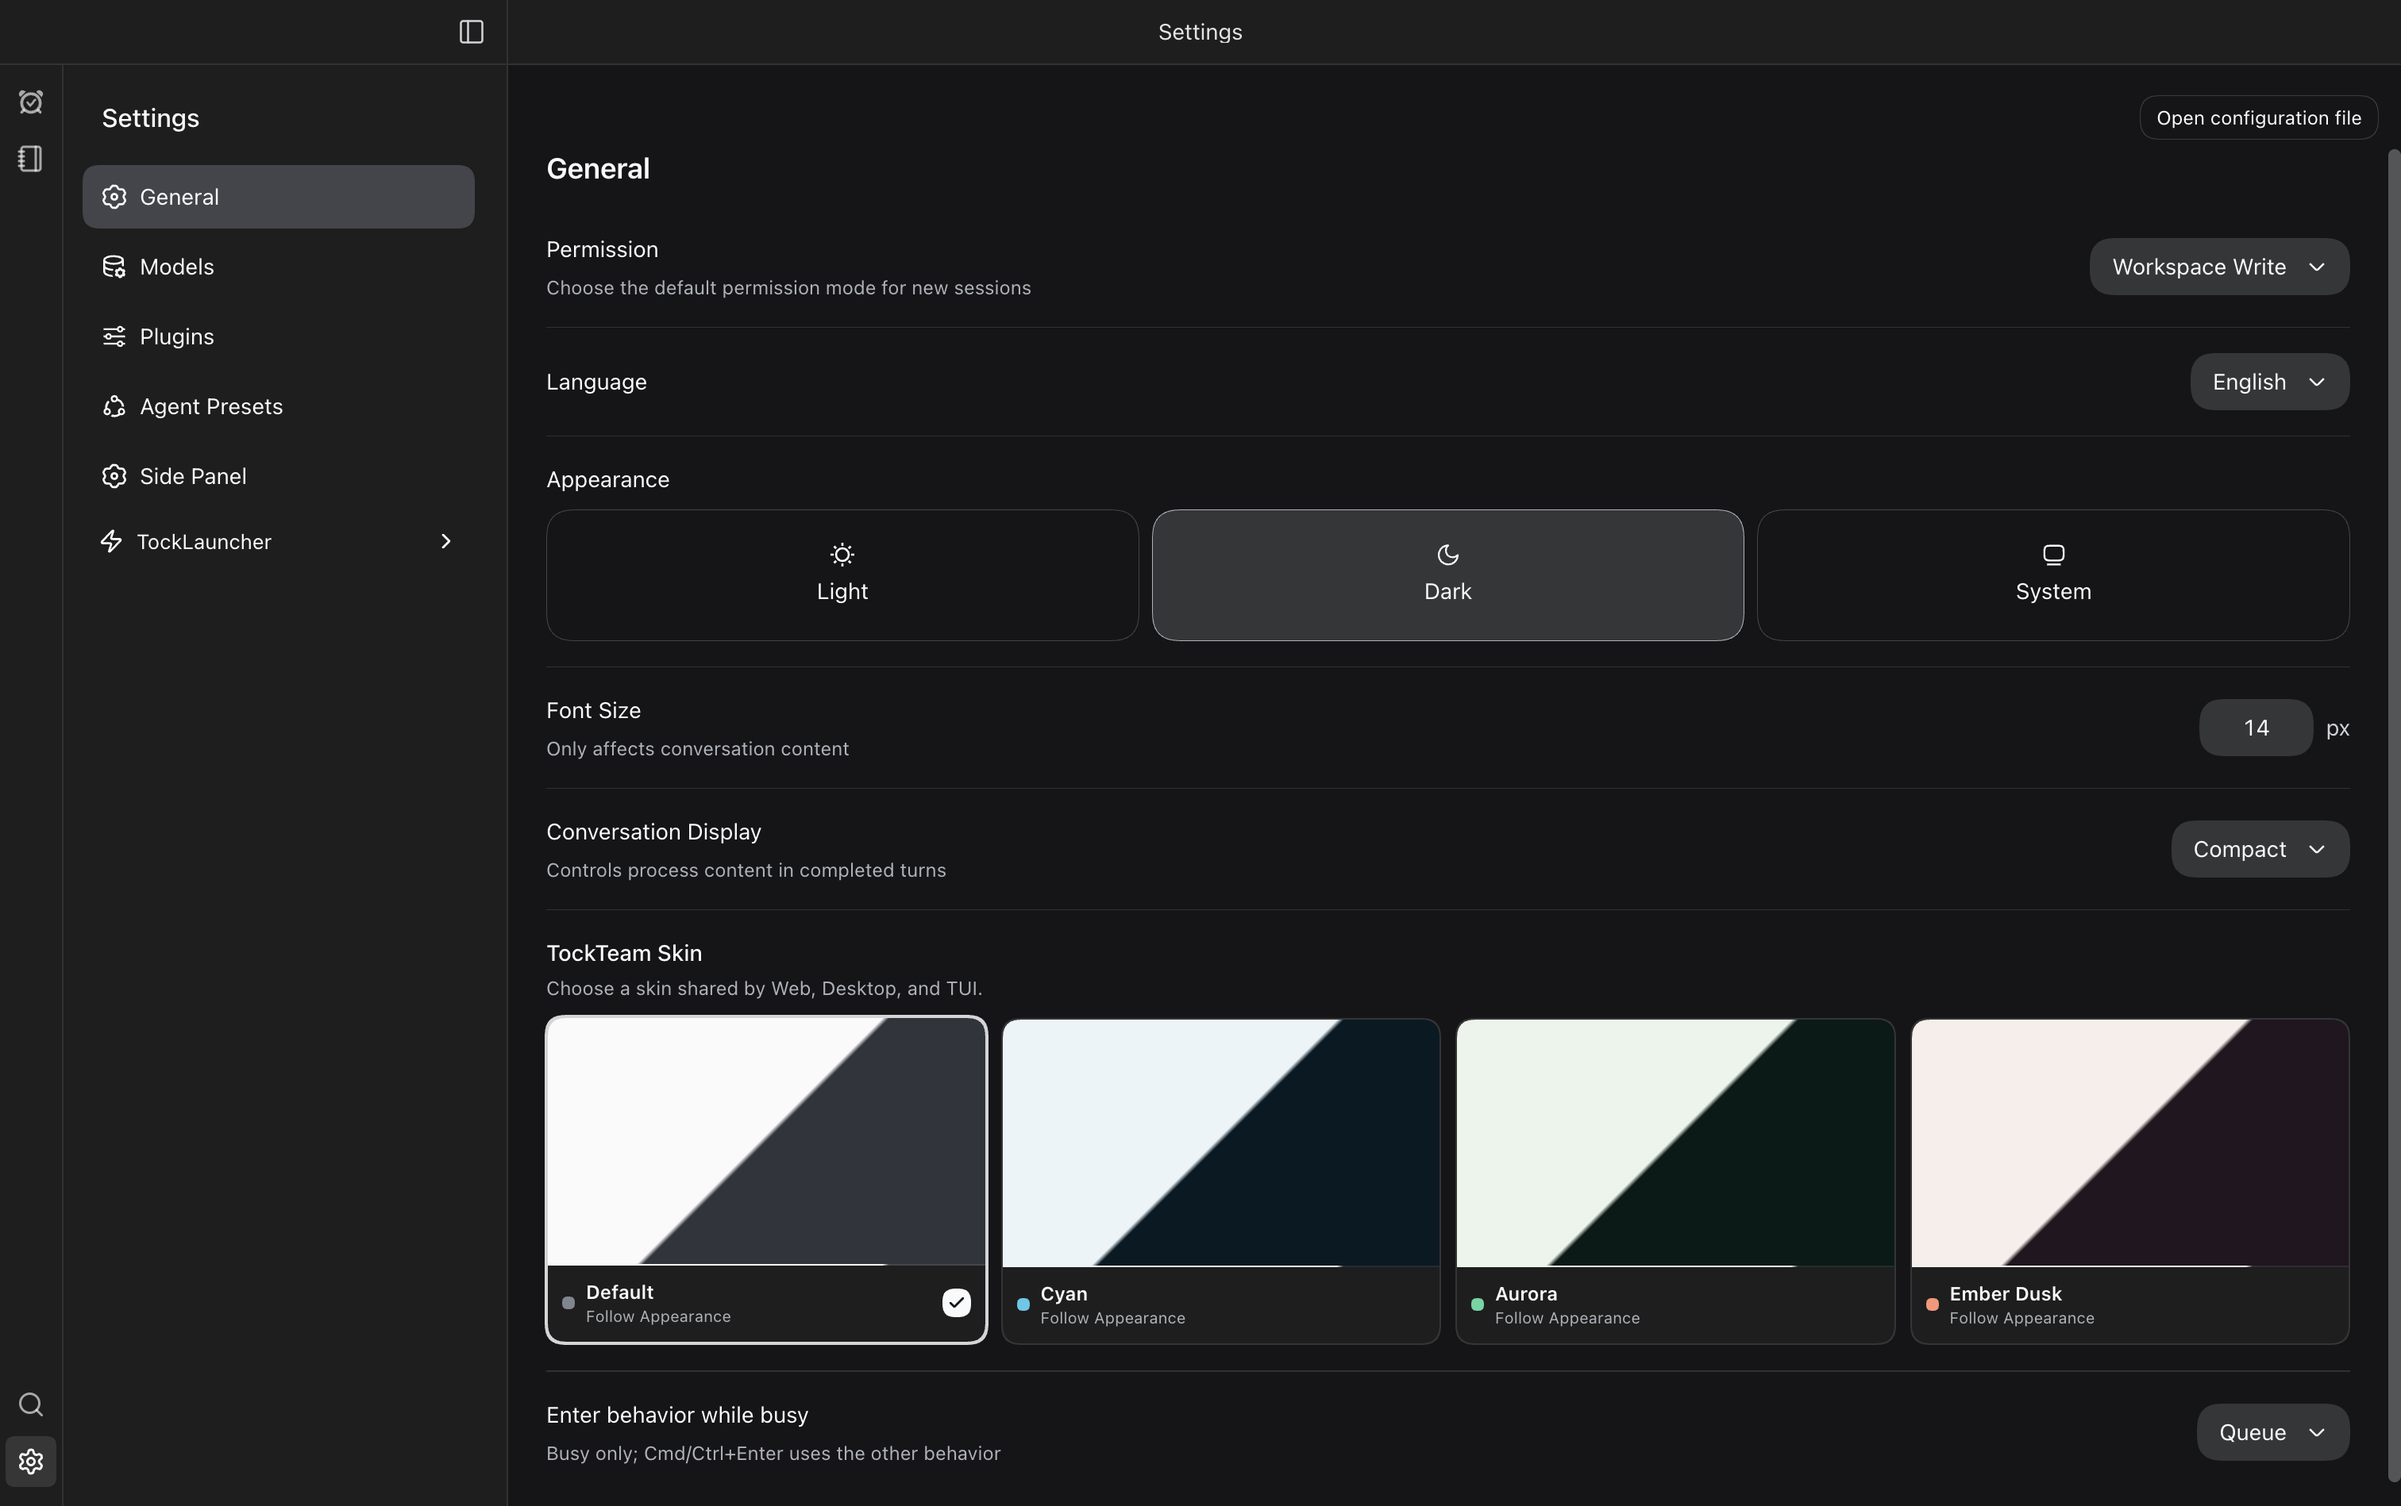
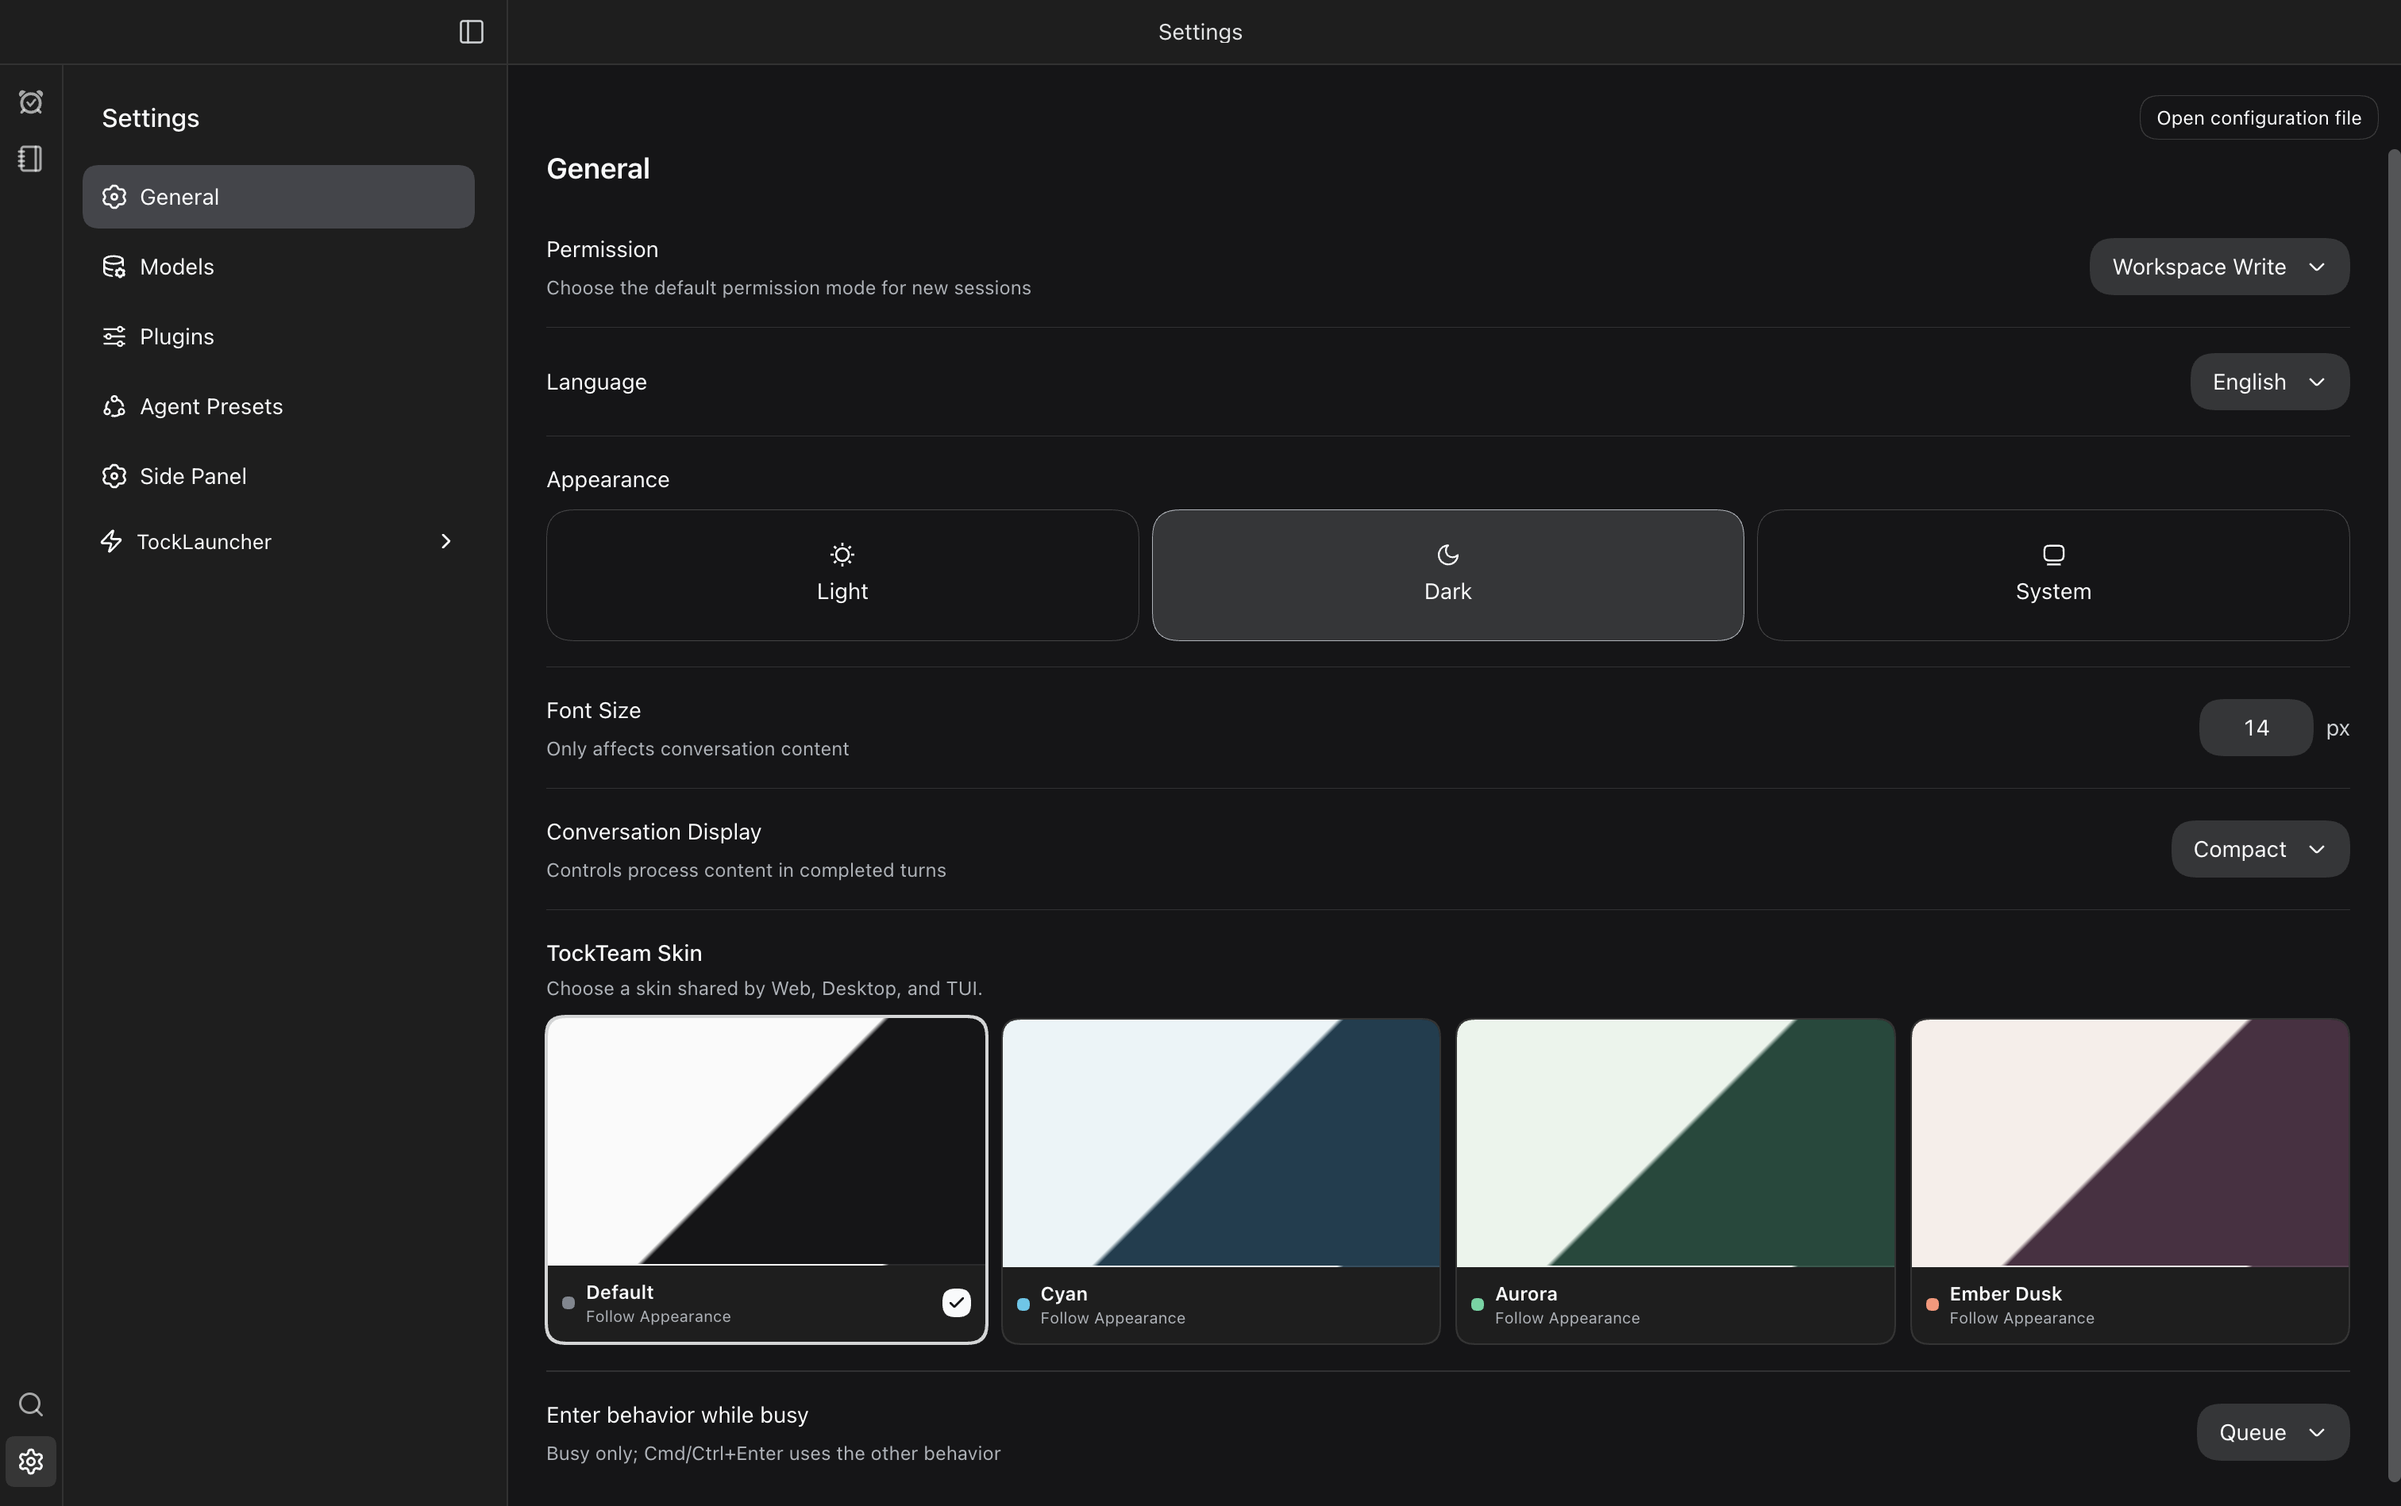
Refresh skin gallery with recognizable dark hues

diff --git a/tests/skins-gallery.test.ts b/tests/skins-gallery.test.ts
@@ -28,11 +28,15 @@ test('shows four skin rows with verified Light-left and Dark-right captures', ()
   assert.equal(proof.cleanup.stopped, true)
   assert.ok(proof.cleanup.rootPid > 0)
   assert.deepEqual(proof.cleanup.remaining, [])
-  assert.deepEqual(proof.galleryCheck.desktop, [1512, 949, 2])
-  assert.deepEqual(proof.galleryCheck.mobile, [390, 844, 2])
-  assert.equal(proof.galleryCheck.loadedImages, 8)
-  assert.deepEqual(proof.galleryCheck.runtimeErrors, [])
-  for (const owned of [proof.galleryCheck.browser, proof.galleryCheck.server]) {
+  assert.equal(proof.galleryCheck.htmlSha256, createHash('sha256').update(html).digest('hex'))
+  assert.equal(proof.galleryCheck.imageFilesVerified, 8)
+  const baseline = proof.galleryCheck.unchangedHtmlBrowserBaseline
+  assert.equal(baseline.route, '/skins.html')
+  assert.deepEqual(baseline.desktop, [1512, 949, 2])
+  assert.deepEqual(baseline.mobile, [390, 844, 2])
+  assert.equal(baseline.loadedImages, 8)
+  assert.deepEqual(baseline.runtimeErrors, [])
+  for (const owned of [baseline.browser, baseline.server]) {
     assert.equal(owned.stopped, true)
     assert.ok(owned.rootPid > 0)
     assert.deepEqual(owned.remaining, [])
@@ -64,7 +68,7 @@ test('shows four skin rows with verified Light-left and Dark-right captures', ()
       const skin = TOCKTEAM_SKINS.find(choice => choice.id === skinId)
       assert.equal(capture.preview?.name, label, file)
       assert.equal(capture.preview.light, skin?.palettes.light.tokens['--dsw-alias-bg-base'] ?? '#fafafa', file)
-      assert.equal(capture.preview.dark, skin?.palettes.dark.tokens['--dsw-alias-bg-base'] ?? '#30343b', file)
+      assert.equal(capture.preview.dark, skin?.palettes.dark.tokens['--dsw-alias-bg-overlay'] ?? '#151517', file)
       assert.match(capture.preview.backgroundImage, /^linear-gradient\(135deg, /u, file)
       assert.ok(capture.preview.backgroundImage.includes('49%') && capture.preview.backgroundImage.includes('50%'), file)
       assert.equal(new Set([...capture.preview.backgroundImage.matchAll(/rgb\([^)]+\)/gu)].map(([color]) => color)).size, 2, `${file} must use only two plain colors`)
